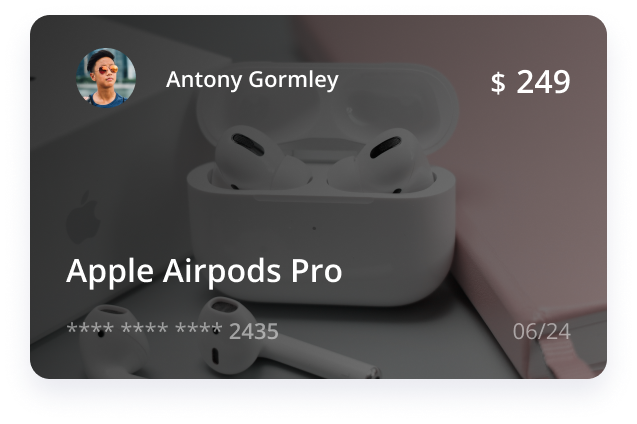
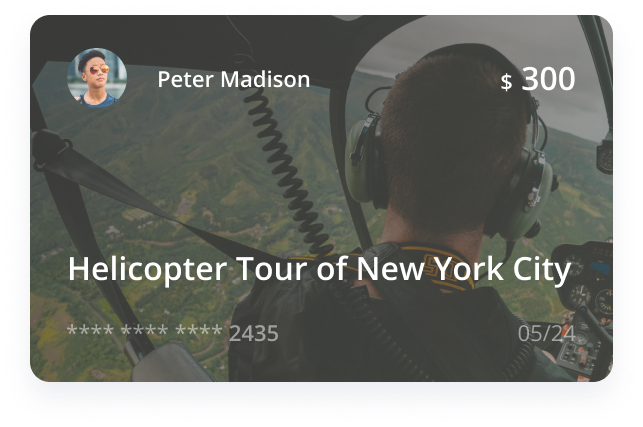
Update Real Gifts section to add more cards and fix spacing issues

diff --git a/index.html b/index.html
@@ -184,7 +184,7 @@
                     <div class="row h0" style="font-size:30px;padding-top:10px;">
                         Real Gifts
                     </div>
-                    <div class="row subtitle" style="padding-top:10px;font-size:20px;">
+                    <div class="row subtitle" style="padding-top:10px;padding-right:125px;font-size:20px;">
                         Send and receive products and experiences from our curated marketplace with the right gift for every occasion.
                     </div>
                 </div>
@@ -215,18 +215,24 @@
 
             </div>
 
-            <div class="row" style="padding-top:50px;padding-bottom:150px;padding-left:50px;padding-right:50px;">
-                <div class="col-md-3">
-                    <img src="images/giftcard1.png" alt="giftcard1" class="img-giftcard" style="position:absolute;width:75%;height:auto;">
+            <div class="row" style="padding-top:50px;padding-bottom:150px;padding-left:20px;padding-right:50px;">
+                <div class="col-md-2">
+                    <img src="images/giftcard1.png" alt="giftcard1" class="img-giftcard" style="position:absolute;width:100%;height:auto;">
                 </div>
-                <div class="col-md-3">
-                    <img src="images/giftcard2.png" alt="giftcard2" class="img-giftcard" style="position:absolute;width:75%;height:auto;">
+                <div class="col-md-2">
+                    <img src="images/giftcard2.png" alt="giftcard2" class="img-giftcard" style="position:absolute;width:100%;height:auto;">
                 </div>
-                <div class="col-md-3">
-                    <img src="images/giftcard3.png" alt="giftcard3" class="img-giftcard" style="position:absolute;width:75%;height:auto;">
+                <div class="col-md-2">
+                    <img src="images/giftcard3.png" alt="giftcard3" class="img-giftcard" style="position:absolute;width:100%;height:auto;">
                 </div>
-                <div class="col-md-3">
-                    <img src="images/giftcard4.png" alt="giftcard4" class="img-giftcard" style="position:absolute;width:75%;height:auto;">
+                <div class="col-md-2">
+                    <img src="images/giftcard4.png" alt="giftcard4" class="img-giftcard" style="position:absolute;width:100%;height:auto;">
+                </div>
+                <div class="col-md-2">
+                    <img src="images/giftcard5.png" alt="giftcard5" class="img-giftcard" style="position:absolute;width:100%;height:auto;">
+                </div>
+                <div class="col-md-2">
+                    <img src="images/giftcard6.png" alt="giftcard6" class="img-giftcard" style="position:absolute;width:100%;height:auto;">
                 </div>
             </div>
 

diff --git a/js/halo.js b/js/halo.js
@@ -34,11 +34,12 @@ $('#submit-form2').on('click', function(e) {
 // Real gifts section
 
 $(".img-giftcard").mouseover(function() {
-    $(this).css({ width: '100%', height: 'auto' });
+    $(this).css({ width: '105%', height: 'auto' });
 });
 
 $(".img-giftcard").mouseout(function() {
-    $(this).css({ width: '75%', height: 'auto' });
+    $(this).css({ width: '100%', height: 'auto' });
+
 });
 
 // Personalization section
